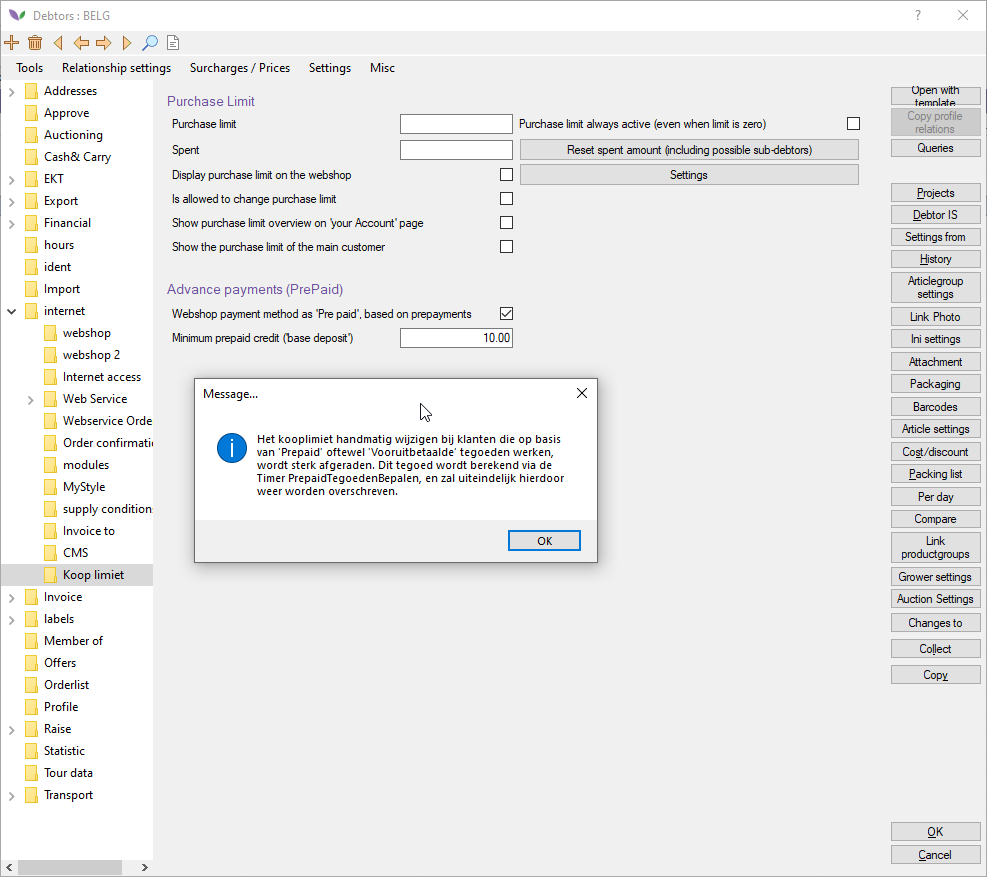
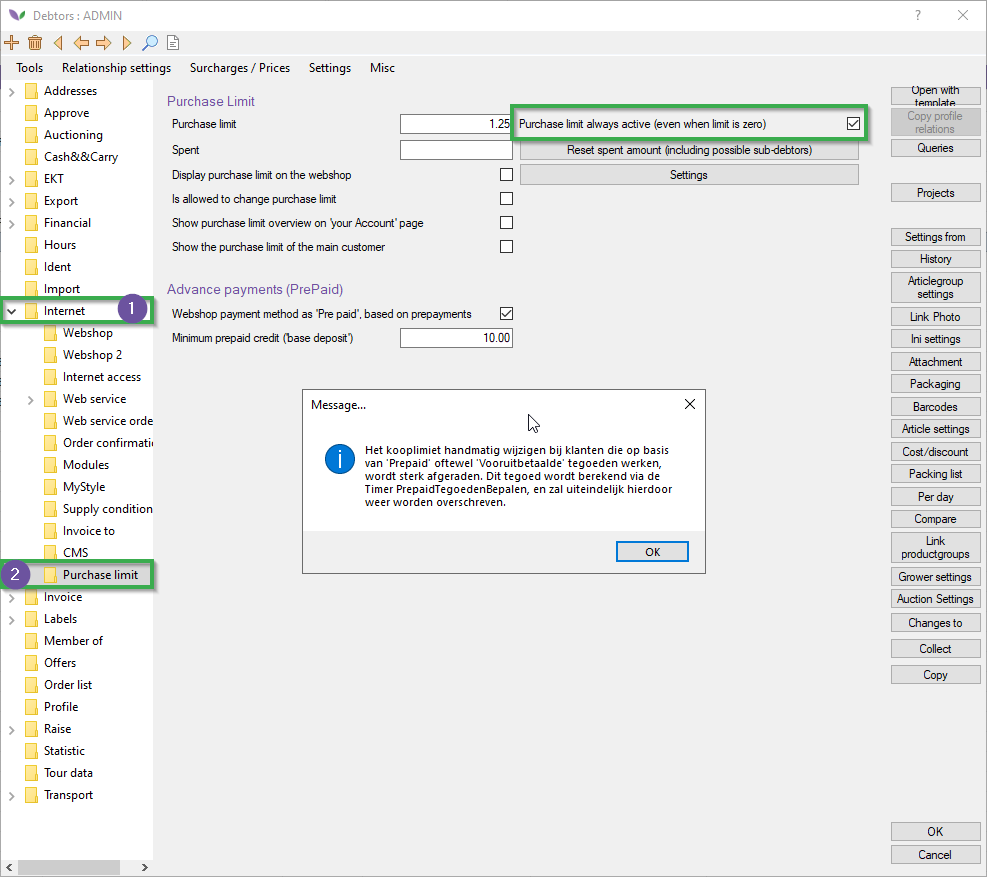
Changelog

diff --git a/FLORISHOP ADDONS/Florishop Addon Prepaid (M199)/M199 - FloriShop Addon Prepaid - NL.md b/FLORISHOP ADDONS/Florishop Addon Prepaid (M199)/M199 - FloriShop Addon Prepaid - NL.md
@@ -13,7 +13,7 @@ Het idee van dit systeem is dat klanten op de webshop slechts op een vooruitbeta
 |Stap|Uitleg|
 |:--|:--|
 |**1**|Stel eerst in dat een klant een Pre-Paid klant is.Dit kan in het constantenscherm onder: **Organen→Debiteurgegevens→Debiteuren**.<br>Open de debiteur kaart en navigeer naar:<br>**Internet→Koop limiet**<details><summary><b>Klik hier voor uw voorbeeld afbeelding</b></summary><img src="Pre Paid Kooplimiet/image1.png"></details>|
-|**2**|Wanneer dit is aangevinkt, krijgt men voortaan een melding indien men poogt handmatig het kooplimiet te wijzigen, kooplimieten dienen dus niet meer handmatig aangepast te worden wanneer het een'PrePaid' klant betreft :<br><br>Het Minimum prepaid tegoed ‘basis inleg’ is een soort onderste limiet, welk niet besteed mag worden. Dit wordt direct van het totale tegoed afgehaald, en komt niet in het kooplimiet naar voren, maar kan wel worden getoond op de webshop.<Br><br>In het kort dient vooral de vink Webshop betaalwijze via ‘Pre paid’ aangezet te worden, en desgewenst kan het Minimum prepaid tegoed worden gevuld. Dit laatste is optioneel.<br><br>Het totale betaalde bedrag wat nog niet is verwerkt door het systeem (via de webshop), of dit nu een ‘vooruit’ betaling was of niet, wordt in het kooplimiet verwerkt. Dit verwerken gebeurt dan wel direct bij het betalen via de payment gateway op de webshop, dan wel op de Timer PREPAIDTEGOEDBEPALEN<details><summary><b>Klik hier voor uw voorbeeld afbeelding</b></summary><img src="Pre Paid Kooplimiet/image2.png"></details>|
+|**2**|Wanneer dit is aangevinkt, krijgt men voortaan een melding indien men poogt handmatig het kooplimiet te wijzigen, kooplimieten dienen dus niet meer handmatig aangepast te worden wanneer het een'PrePaid' klant betreft :<br><br>Het Minimum prepaid tegoed ‘basis inleg’ is een soort onderste limiet, welk niet besteed mag worden. Dit wordt direct van het totale tegoed afgehaald, en komt niet in het kooplimiet naar voren, maar kan wel worden getoond op de webshop.<Br><br>In het kort dient vooral de vink Webshop betaalwijze via ‘Pre paid’ aangezet te worden, en desgewenst kan het Minimum prepaid tegoed worden gevuld. Dit laatste is optioneel.<br><br>Het totale betaalde bedrag wat nog niet is verwerkt door het systeem (via de webshop), of dit nu een ‘vooruit’ betaling was of niet, wordt in het kooplimiet verwerkt. Dit verwerken gebeurt dan wel direct bij het betalen via de payment gateway op de webshop, dan wel op de Timer PREPAIDTEGOEDBEPALEN<br><br>Zorg er daarnaast ook voor dat de instelling "*Koop limiet altijd actief (ook bij kooplimiet 0.00)* aan staat!"<details><summary><b>Klik hier voor uw voorbeeld afbeelding</b></summary><img src="Pre Paid Kooplimiet/image2.png"></details>|
 |**3**|Open het timer settings scherm.<details><summary><b>Klik hier voor uw voorbeeld afbeelding</b></summary><img src="Pre Paid Kooplimiet/image11.png"></details>|
 |**4**|Zoek in de timer processen naar "*PrePaid tegoeden bepalen*", u kan dit doen middels CTRL + SHIFT + F of door op '*Timer Setting*' kolom te klikken en de eerste 2 letters van het timer proces in te typen (PR).<details><summary><b>Klik hier voor uw voorbeeld afbeelding</b></summary><img src="Pre Paid Kooplimiet/image12.png"></details>|
 |**5**|Dit timerproces wordt geacht aangezet te worden wanneer men deze functionaliteit wenst te gebruiken.Wanneer er een betaling is gedaan, en de Timer was actief, is het volgende gedrag te verwachten: <br><br>Wanneer de klant een prepaid betaling heeft gedaan en de timerfunctie is uitgevoerd wordt het kooplimiet opgehoogd met dit bedrag min de basis inleg.'<details><summary><b>Klik hier voor uw voorbeeld afbeelding</b></summary><img src="Pre Paid Kooplimiet/image13.png"></details>|

diff --git a/FLORISHOP ADDONS/Florishop Addon Prepaid (M199)/M199 - Florishop Addon prepaid - EN.md b/FLORISHOP ADDONS/Florishop Addon Prepaid (M199)/M199 - Florishop Addon prepaid - EN.md
@@ -13,7 +13,7 @@ The idea of this system is that customers can shop on the web shop only on a pre
 |Step|Explanation|
 |:-:|:--|
 |**1**|Configure the debtor as a Pre-Paid customer, we can do this in the constants screen path:<br>**Community→Debtor data→Debtors**<br>Open a debtor and navigate to:<br>**Internet→Koop limiet** (Purchase limit in Dutch)<details><summary><b>Click here for the example image!</b></summary><img src="Pre Paid Kooplimiet/EN/image1.png"></details>|
-|**2**|When this setting is enabled you should get a alert prompt if someone tries to manually alter the purchase limit. You should **NOT** change the purchase limit once it has been set in a Pre-paid customer.<br><br>The '*Minimum prepaid credit (base deposit)*' is the base limit that can't be spent. This is deducted directly from the total credit, and does not show up in the purchase limit, but can be shown on the web shop.<br><br>In short enable the setting "*Webshop payment method as 'Pre paid', based on payments*" and an **optional** step is to set a minimum prepaid credit.<br><br>Het totale betaalde bedrag wat nog niet is verwerkt door het systeem (via de webshop), of dit nu een ‘vooruit’ betaling was of niet, wordt in het kooplimiet verwerkt. Dit verwerken gebeurt dan wel direct bij het betalen via de payment gateway op de webshop, dan wel op de Timer PREPAIDTEGOEDBEPALEN. <details><summary><b>Click here for the example image!</b></summary><img src="Pre Paid Kooplimiet/EN/image2.png"></details>|
+|**2**|When this setting is enabled you should get a alert prompt if someone tries to manually alter the purchase limit. You should **NOT** change the purchase limit once it has been set in a Pre-paid customer.<br><br>The '*Minimum prepaid credit (base deposit)*' is the base limit that can't be spent. This is deducted directly from the total credit, and does not show up in the purchase limit, but can be shown on the web shop.<br><br>In short enable the setting "*Webshop payment method as 'Pre paid', based on payments*" and an **optional** step is to set a minimum prepaid credit.<br><br>Het totale betaalde bedrag wat nog niet is verwerkt door het systeem (via de webshop), of dit nu een ‘vooruit’ betaling was of niet, wordt in het kooplimiet verwerkt. Dit verwerken gebeurt dan wel direct bij het betalen via de payment gateway op de webshop, dan wel op de Timer PREPAIDTEGOEDBEPALEN.<br><br>Do also make sure to enable the setting "*Purchase limit always active (even when limit is zero*).<details><summary><b>Click here for the example image!</b></summary><img src="Pre Paid Kooplimiet/EN/image2.png"></details>|
 |**3**|Open the timer settings screen.<details><summary><b>Click here for the example image!</b></summary><img src="Pre Paid Kooplimiet/EN/image11.png"></details>|
 |**4**|Search the timer processes for the setting "PrePaid tegoeden bepalen: you can do this using CTRL + SHIFT + F or by clicking on 'Timer Setting' column and typing in the first 2 letters of the timer process (PR).<details><summary><b>Click here for the example image!</b></summary><img src="Pre Paid Kooplimiet/EN/image12.png"></details> |
 |**5**|This timer process is supposed to be turned on when one wishes to use this functionality.When a payment has been made, and the Timer was active, the following behavior can be expected:<br><br>When the customer has made a prepaid payment and the timer function is executed, the purchase limit is raised by this amount minus the base deposit.<details><summary><b>Click here for the example image!</b></summary><img src="Pre Paid Kooplimiet/EN/image13.png"></details> |

diff --git a/FLORISHOP ADDONS/Florishop Addon Shopping List (M135)/M135 - Manual shoppinglist EN new.md b/FLORISHOP ADDONS/Florishop Addon Shopping List (M135)/M135 - Manual shoppinglist EN new.md
@@ -51,7 +51,7 @@ Welcome to the Florishop Shoppinglist Addon, this manual shows you how to set up
 |:-:|:--|
 |**1**|Click on the shopping list icon on the left side of the screen. This opens a pop-up screen.Click on the pen/edit icon next to the shoppinglist row.<details><summary><b>Click here for the example image!</b></summary><img src="Shopping List Media EN/img10.png"></details>|
 |**2**|In this pop-up screen you can choose to use an existing or create a new shopping list.|
-|**2.a**|In case you want to use an existing shopping list, choose a list item from the list and press **Ok**.Click on the pen/edit icon next to the shoppinglist row.<details><summary><b>Click here for the example image!</b></summary><img src=""></details>|
+|**2.a**|In case you want to use an existing shopping list, choose a list item from the list and press **Ok**.Click on the pen/edit icon next to the shoppinglist row.|
 |**2.b**|If you want to create a new shoppinglist then do the following, click on the option **Add new shopping list** this opens a pop-up screen, enter a name and click on **Ok**.Click on the pen/edit icon next to the shoppinglist row.<details><summary><b>Click here for the example image!</b></summary><img src="Shopping List Media EN/img10.png"></details>|
 
 ### Adding orders to the shopping list
@@ -59,7 +59,7 @@ Welcome to the Florishop Shoppinglist Addon, this manual shows you how to set up
 |Step|Explanation|
 |:-:|:--|
 |**1**|Click on the shopping list icon in the left sidebar, this opens the shoppinglist sidebar option.|
-|**2**|In the order overview screen you'll see the orders made on your account.Click on the pen/edit icon next to the shoppinglist row.<details><summary><b>Click here for the example image!</b></summary><img src="Shopping List Media EN/img6.png"></details>|
+|**2**|In the order overview screen you'll see the orders made on your account.Click on the pen/edit icon next to the shoppinglist row.<details><summary><b>Click here for the example image!</b></summary><img src="Shopping List Media EN/img11.png"></details>|
 |**3**|In the order overview you'll see the orders linked to your account with purchased parcels per order. In this screen you can add entire orders(#1) or individual items(#2) in the order to the shoppinglist. <details><summary><b>Click here for the example image!</b></summary><img src="Shopping List Media EN/img12.png"></details>|
 |**4**|When you click on the shopping list icon a a pop-up appears asking you to use an existing or create a new shoppinglist.Click on the pen/edit icon next to the shoppinglist row.<details><summary><b>Click here for the example image!</b></summary><img src="Shopping List Media EN/img11.png"></details>|
 |**5**|If you don't see your orders on screen, they may be filtered out based on the datefilter settings.Click on the pen/edit icon next to the shoppinglist row.<details><summary><b>Click here for the example image!</b></summary><img src="Shopping List Media EN/img13.png"></details>|
